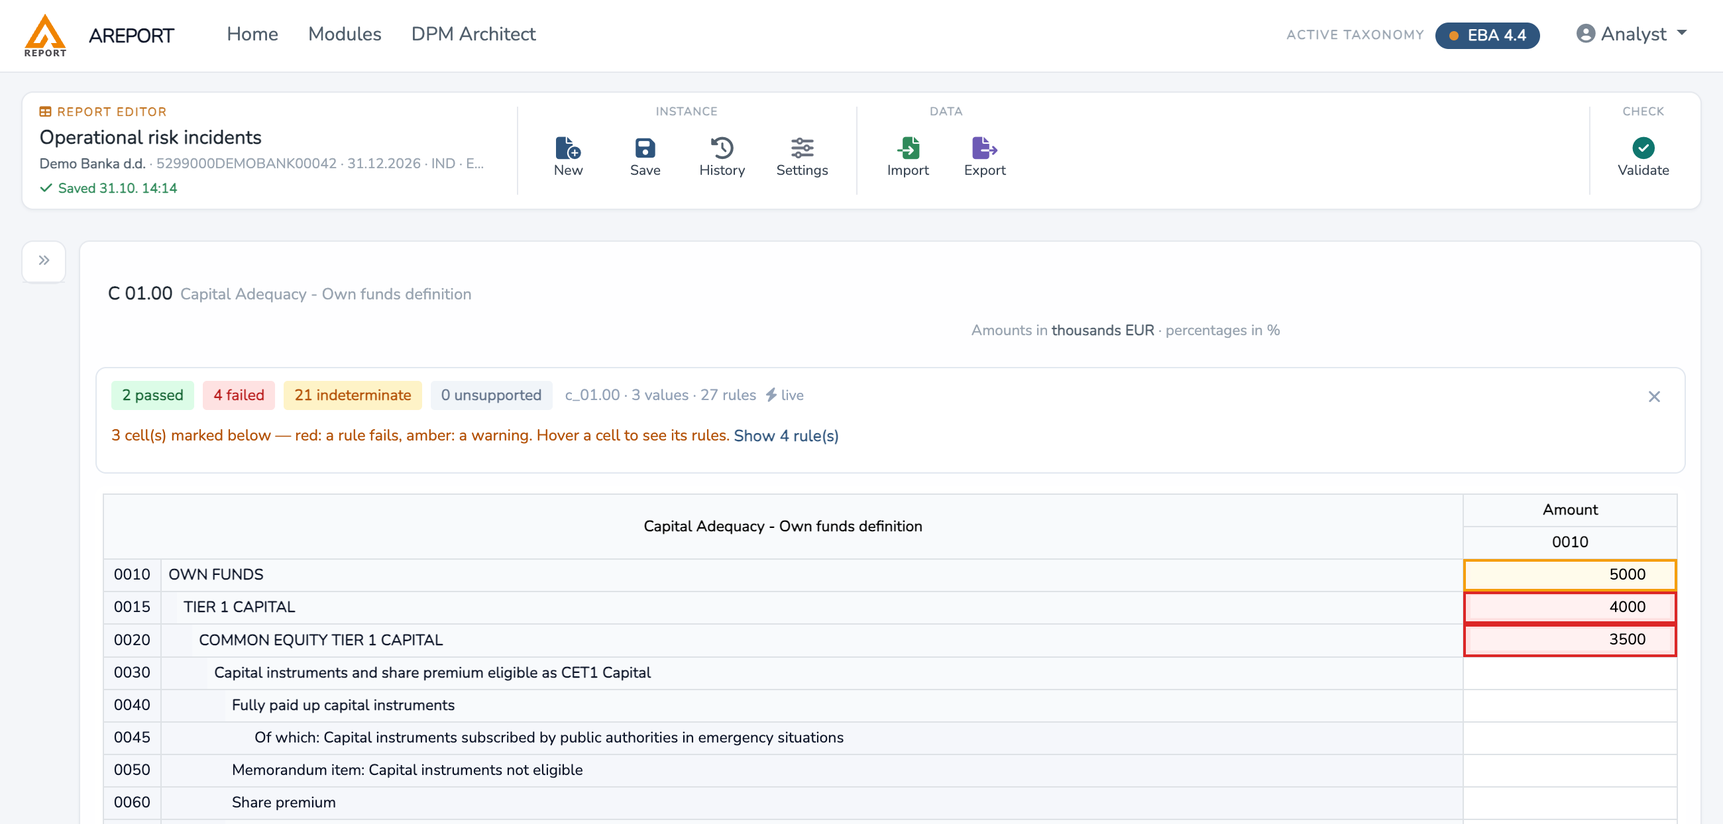
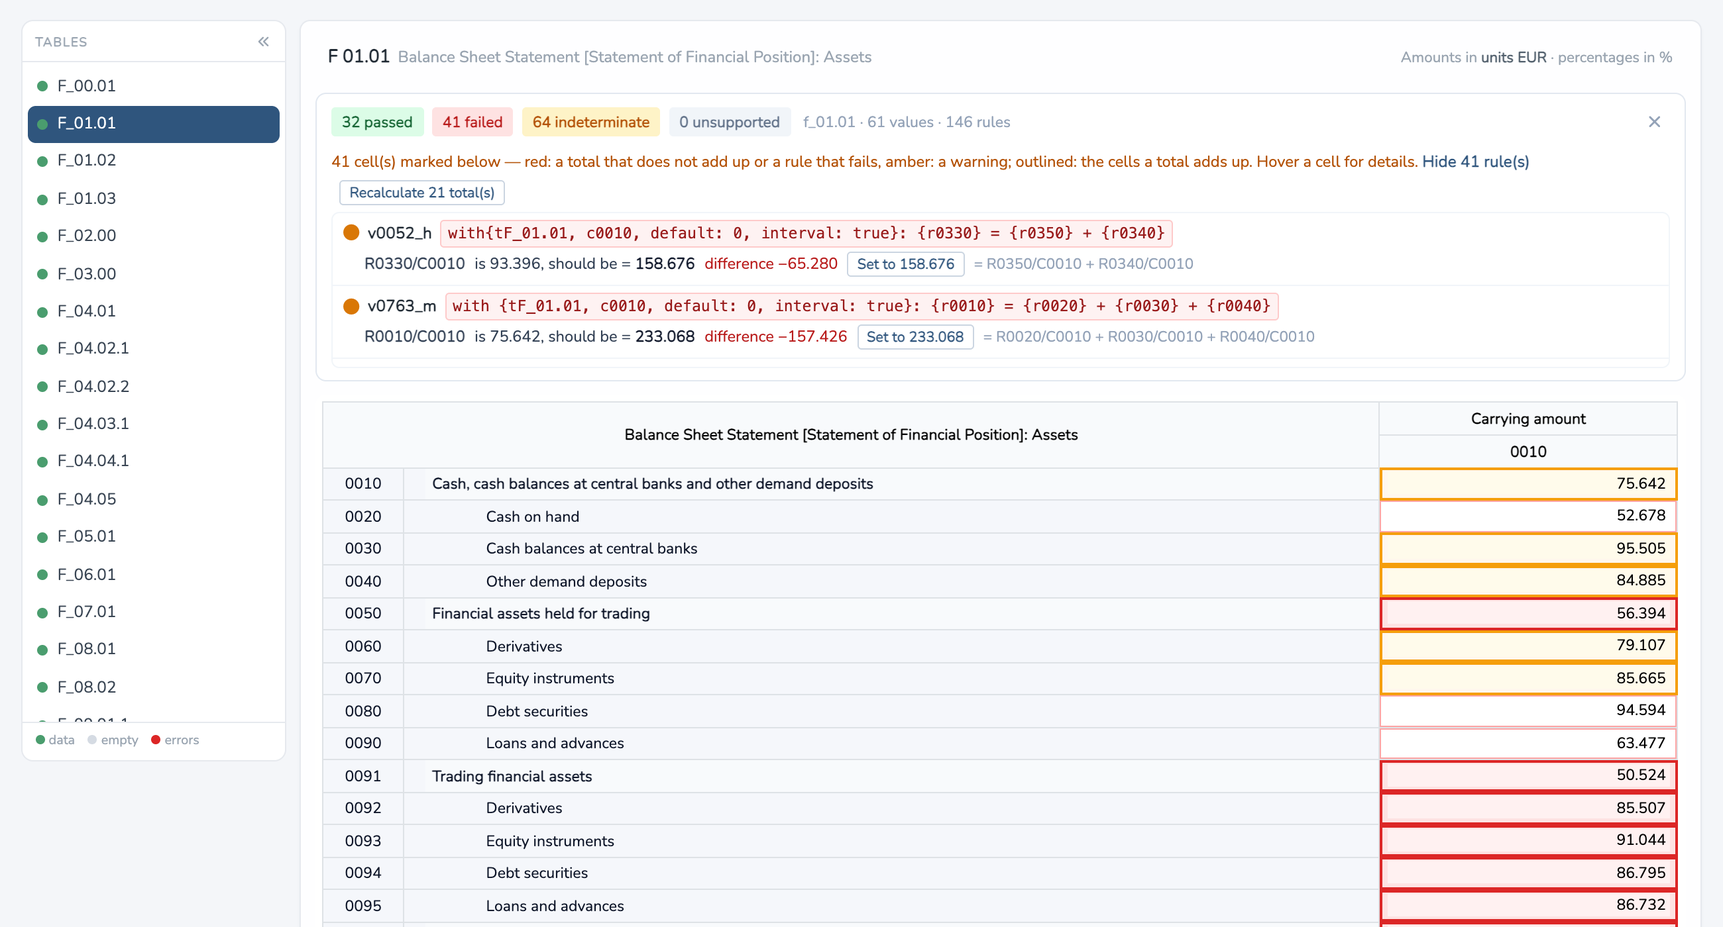
Landing page: three private plugins (Teams added), report import, number formats, explained totals; new form screenshot

diff --git a/resources/views/welcome.blade.php b/resources/views/welcome.blade.php
@@ -5,15 +5,17 @@
     <meta name="viewport" content="width=device-width, initial-scale=1">
     @php
         $seoTitle = 'AReport — DPM & XBRL regulatory reporting software (EBA, EIOPA, COREP, FINREP, xBRL-CSV)';
-        $seoDesc = 'AReport turns DPM/XBRL taxonomies (EBA, EIOPA, ECB or national) into reporting forms: enter COREP, FINREP, DORA or MREL data, validate it with DPM-XL rules and Arelle, and export xBRL-CSV and xBRL-XML filings.';
+        $seoDesc = 'AReport turns DPM/XBRL taxonomies (EBA, EIOPA, ECB or national) into reporting forms: enter or import COREP, FINREP, DORA or MREL data, validate it with DPM-XL rules and Arelle, sign it off as a team and export xBRL-CSV and xBRL-XML filings.';
         $seoImage = asset('images/landing/workspace.png');
         $faq = [
             ['What is AReport?', 'AReport is a web application for supervisory reporting with DPM/XBRL taxonomies. It renders the taxonomy tables as data entry forms, stores the reported facts, checks them and exports filing-ready xBRL-CSV and xBRL-XML instances.'],
             ['Which taxonomies does AReport support?', 'Any taxonomy built on the DPM/XBRL standard, DPM 1.0 or DPM 2.0: EBA, EIOPA, ECB or a national regulator\'s, including open tables, typed dimensions and national extensions. Tested with EBA 4.2 and 4.4 (COREP, FINREP, DORA, MREL, IRRBB, AE, MICA).'],
             ['Which file formats can I export?', 'xBRL-CSV report packages and xBRL-XML instances following the filing rules (e.g. the EBA filing rules), plus Excel, PDF and HTML copies of the tables. Exported instances can be checked with Arelle before filing.'],
-            ['How is the data validated?', 'Business rules written in DPM-XL run on the reported data and mark the cells that break a rule directly on the form: red for errors, amber for warnings. A validation report lists every rule with the facts behind it.'],
-            ['Can I build my own taxonomy?', 'Yes, with the private DPM Architect plugin: design frameworks, modules, tables, the data dictionary and validation rules, and generate an XBRL taxonomy package that is checked with Arelle.'],
-            ['Is AReport open source?', 'The core application is on GitHub. The DPM Architect and Validation plugins are private and provided separately — use the contact form to ask about them.'],
+            ['Can I bring in reports I already have?', 'Yes. An xBRL-CSV report package or an xBRL-XML instance opens as a new report: the module, reference date, entity and filing indicators come from the file and every fact goes into its cell, open tables and typed sheets included. Excel templates are read by their EBA row and column codes, and a block copied from Excel can be pasted straight into a table.'],
+            ['How is the data validated?', 'Business rules written in DPM-XL run on the reported data and mark the cells to look at directly on the form: red for errors, amber for warnings. For a total that does not add up the form shows what its parts add up to and the difference, and sets it in one click. A validation report lists every rule with the facts behind it.'],
+            ['Can I build my own taxonomy?', 'Yes, with the private DPM Architect plugin: design frameworks, modules, tables, the data dictionary and validation rules, release versions, and generate an XBRL taxonomy package that is checked with Arelle.'],
+            ['Can a team review and approve reports?', 'Yes, with the private Teams plugin: members share reports and entities, with preparer, reviewer and approver roles, a four-eyes sign-off (draft, in review, approved, exported), comments on cells and an e-mail at every step.'],
+            ['Is AReport open source?', 'The core application is on GitHub. The DPM Architect, Validation and Teams plugins are private and provided separately — use the contact form to ask about them.'],
         ];
     @endphp
     <title>{{ $seoTitle }}</title>
@@ -51,7 +53,7 @@
                 'description' => $seoDesc,
                 'image' => $seoImage,
                 'screenshot' => [asset('images/landing/workspace.png'), asset('images/landing/form.png'), asset('images/landing/architect.png'), asset('images/landing/validation.png')],
-                'featureList' => ['DPM 1.0 and DPM 2.0 taxonomies (EBA, EIOPA, ECB, national)', 'COREP, FINREP, DORA, MREL reporting forms', 'xBRL-CSV and xBRL-XML export', 'DPM-XL business rule validation', 'Arelle validation of exported instances', 'DPM Architect: taxonomy authoring (private plugin)'],
+                'featureList' => ['DPM 1.0 and DPM 2.0 taxonomies (EBA, EIOPA, ECB, national)', 'COREP, FINREP, DORA, MREL reporting forms', 'Import of xBRL-CSV packages and xBRL-XML instances', 'xBRL-CSV and xBRL-XML export', 'DPM-XL business rule validation', 'Arelle validation of exported instances', 'DPM Architect: taxonomy authoring (private plugin)', 'Teams: four-eyes sign-off (private plugin)'],
                 'offers' => ['@type' => 'Offer', 'price' => '0', 'priceCurrency' => 'EUR', 'description' => 'Demo workspace'],
                 'sameAs' => ['https://github.com/begicf/areport'],
             ],
@@ -126,7 +128,7 @@
         .sec-head h2{font-size:1.9rem;letter-spacing:-.02em;margin:.5rem 0 0;font-weight:700;color:#16202c}
         .sec-head p{color:var(--muted);margin:.7rem 0 0;font-size:1.02rem}
 
-        .benefits{display:grid;grid-template-columns:repeat(4,1fr);gap:1rem}
+        .benefits{display:grid;grid-template-columns:repeat(3,1fr);gap:1rem}
         .bcard{border:1px solid var(--line);border-radius:12px;padding:1.3rem;background:#fff;box-shadow:0 1px 2px rgba(16,24,40,.04)}
         .bcard .ic{width:40px;height:40px;border-radius:10px;display:flex;align-items:center;justify-content:center;background:var(--blue-soft);color:var(--blue);border:1px solid var(--blue-bd);font-size:1.05rem;margin-bottom:.9rem}
         .bcard h3{font-size:1rem;margin:0 0 .35rem;font-weight:600}
@@ -147,8 +149,27 @@
         .feat ul li{display:flex;gap:.6rem;align-items:flex-start;font-size:.92rem;color:#3a4654}
         .feat ul li i{color:var(--blue);margin-top:.2rem}
 
+        /* sign-off mock (Teams) */
+        .so{padding:1.2rem 1.3rem 1.3rem;font-size:.86rem;color:#3a4654}
+        .so-head{display:flex;justify-content:space-between;gap:.8rem;align-items:baseline;flex-wrap:wrap}
+        .so-head b{font-size:.98rem;color:#16202c}
+        .so-head span{font-size:.76rem;color:var(--faint)}
+        .so-steps{display:grid;grid-template-columns:repeat(4,1fr);gap:.4rem;margin:1rem 0 1.1rem}
+        .so-step{text-align:center;font-size:.72rem;font-weight:600;color:var(--faint);padding-top:.55rem;border-top:3px solid var(--line)}
+        .so-step.done{color:#15803d;border-color:#22c55e}
+        .so-step.now{color:var(--blue);border-color:var(--blue)}
+        .so-log{display:grid;gap:.55rem}
+        .so-log div{display:grid;grid-template-columns:28px 1fr;gap:.6rem;align-items:start}
+        .so-log .av{width:28px;height:28px;border-radius:999px;display:flex;align-items:center;justify-content:center;font-size:.68rem;font-weight:700;color:#fff}
+        .so-log p{margin:0;font-size:.82rem;line-height:1.4}
+        .so-log p small{display:block;color:var(--faint);font-size:.72rem}
+        .so-log q{color:#16202c}
+        .so-foot{margin-top:1.1rem;display:flex;gap:.5rem;justify-content:flex-end}
+        .so-btn{font-size:.76rem;font-weight:600;padding:.35rem .75rem;border-radius:7px;border:1px solid var(--line);background:#fff;color:#3a4654}
+        .so-btn.go{background:var(--blue);border-color:var(--blue-d);color:#fff}
+
         /* workflow */
-        .flow{display:grid;grid-template-columns:repeat(4,1fr);gap:1rem;counter-reset:step}
+        .flow{display:grid;grid-template-columns:repeat(5,1fr);gap:1rem;counter-reset:step}
         .step{border:1px solid var(--line);border-radius:12px;padding:1.3rem;background:#fff;position:relative}
         .step .n{width:30px;height:30px;border-radius:999px;background:var(--blue);color:#fff;display:flex;align-items:center;justify-content:center;font-weight:700;font-size:.9rem}
         .step h4{margin:.8rem 0 .3rem;font-size:1rem;font-weight:600}
@@ -175,6 +196,7 @@
 
         @media (max-width:900px){
             .hero .grid,.feat,.benefits,.flow{grid-template-columns:1fr}
+            .benefits{grid-template-columns:1fr}
             .hero h1{font-size:2.1rem}
             .feat.rev .ftext{order:0}
             .shot.tilt{transform:none}
@@ -271,8 +293,8 @@
             <h1>Taxonomy-driven reporting, <span class="hl">modelled and validated</span> in one workspace.</h1>
             <p class="lead">
                 AReport turns DPM/XBRL taxonomies (EBA, EIOPA, ECB or your regulator's) into a working reporting environment — browse modules,
-                fill submission data, and export valid xBRL. Two private plugins let you
-                <strong>author the data model</strong> and <strong>validate every figure</strong> before you file.
+                fill or import submission data, and export valid xBRL. Three private plugins let you
+                <strong>author the data model</strong>, <strong>validate every figure</strong> and <strong>sign off as a team</strong> before you file.
             </p>
             <div class="cta">
                 @auth
@@ -284,7 +306,7 @@
             </div>
             <div class="meta">
                 <span class="m"><i class="fas fa-circle-check"></i> DPM 1.0 &amp; 2.0</span>
-                <span class="m"><i class="fas fa-circle-check"></i> xBRL-XML · OIM CSV · JSON</span>
+                <span class="m"><i class="fas fa-circle-check"></i> xBRL-CSV · xBRL-XML · Excel</span>
                 <span class="m"><i class="fas fa-circle-check"></i> DPM-XL · Arelle</span>
             </div>
         </div>
@@ -298,10 +320,11 @@
 {{-- ===== Trust strip ===== --}}
 <div class="trust">
     <div class="wrap lrow">
-        <span class="t"><i class="fas fa-layer-group"></i> Framework → Table group → Table</span>
+        <span class="t"><i class="fas fa-file-import"></i> Import existing xBRL-CSV &amp; xBRL-XML reports</span>
+        <span class="t"><i class="fas fa-table-cells"></i> Excel by EBA row &amp; column codes</span>
+        <span class="t"><i class="fas fa-shield-halved"></i> DPM-XL rules &amp; Arelle</span>
+        <span class="t"><i class="fas fa-user-check"></i> Four-eyes sign-off</span>
         <span class="t"><i class="fas fa-file-zipper"></i> Generated XBRL taxonomy packages</span>
-        <span class="t"><i class="fas fa-file-import"></i> Import &amp; export instances</span>
-        <span class="t"><i class="fas fa-shield-halved"></i> Rule-based data quality</span>
     </div>
 </div>
 
@@ -316,22 +339,32 @@
         <div class="bcard">
             <div class="ic"><i class="fas fa-sitemap"></i></div>
             <h3>Taxonomy-native</h3>
-            <p>Loads any DPM-based taxonomy exactly as published (EBA, EIOPA or a national regulator's: COREP, FINREP, DORA, MREL and more) with the full dimensional model.</p>
+            <p>Loads any DPM-based taxonomy exactly as published (EBA, EIOPA or a national regulator's: COREP, FINREP, DORA, MREL and more) with the full dimensional model, open tables and typed sheets.</p>
         </div>
         <div class="bcard">
-            <div class="ic"><i class="fas fa-table-cells"></i></div>
-            <h3>Real reporting tables</h3>
-            <p>Render authored and official tables with RC notation, nested headers and open axes, ready for direct data entry.</p>
+            <div class="ic"><i class="fas fa-keyboard"></i></div>
+            <h3>Forms made for reporters</h3>
+            <p>Real reporting tables with RC codes. Numbers in your style (1.234,56 or 1,234.56), a block pasted from Excel, Enter down the column, and last period copied or compared with the change in %.</p>
+        </div>
+        <div class="bcard">
+            <div class="ic"><i class="fas fa-file-import"></i></div>
+            <h3>Bring the reports you have</h3>
+            <p>Open an existing xBRL-CSV package or xBRL-XML instance as a new report — module, date, entity and filing indicators come from the file. Excel templates are read by their EBA codes.</p>
         </div>
         <div class="bcard">
             <div class="ic"><i class="fas fa-right-left"></i></div>
-            <h3>Open formats</h3>
-            <p>Import and export xBRL-XML, OIM xBRL-CSV and JSON. Round-trips are lossless, so nothing is lost in translation.</p>
+            <h3>Filing-ready exports</h3>
+            <p>xBRL-CSV report packages and xBRL-XML instances that follow the EBA filing rules, checked with Arelle, plus Excel, PDF and HTML copies of any table.</p>
         </div>
         <div class="bcard">
-            <div class="ic"><i class="fas fa-circle-check"></i></div>
-            <h3>Confidence to file</h3>
-            <p>Business rules run on your data and highlight exactly which cells to fix — before the submission ever leaves your desk.</p>
+            <div class="ic"><i class="fas fa-list-check"></i></div>
+            <h3>Know where each report stands</h3>
+            <p>Every report shows its status — not validated, with errors, ready or exported — and its EBA remittance date. A pre-flight check covers entity (LEI from GLEIF), filing indicators and settings.</p>
+        </div>
+        <div class="bcard">
+            <div class="ic"><i class="fas fa-clock-rotate-left"></i></div>
+            <h3>A full audit trail</h3>
+            <p>Every change to a cell is kept with who made it and when, so a figure can always be traced back — on screen or in the report's history.</p>
         </div>
     </div>
 </section>
@@ -340,10 +373,10 @@
 <div class="plugins" id="plugins">
     <div class="wrap">
         <div class="sec-head" style="padding-top:3.4rem">
-            <span class="eyebrow">Two private plugins</span>
-            <h2>Model the data. Validate the data.</h2>
-            <p>Two optional power tools extend the core workspace.</p>
-            <p class="private-note"><i class="fas fa-lock"></i> DPM Architect and the Validation plugin are <b>not publicly available</b> — they are not part of the open-source AReport and are provided separately, on request. <a href="#contact">Contact us →</a></p>
+            <span class="eyebrow">Three private plugins</span>
+            <h2>Model the data. Validate it. Sign it off.</h2>
+            <p>Three optional extensions of the core workspace, each usable on its own.</p>
+            <p class="private-note"><i class="fas fa-lock"></i> DPM Architect, Validation and Teams are <b>not publicly available</b> — they are not part of the open-source AReport and are provided separately, on request. <a href="#contact">Contact us →</a></p>
         </div>
 
         {{-- DPM Architect --}}
@@ -355,7 +388,9 @@
                 <ul>
                     <li><i class="fas fa-check"></i> Structure editor for X / Y / Z axes: metric, dimensions and open (key) axes per coordinate</li>
                     <li><i class="fas fa-check"></i> Data dictionary of metrics, dimensions, domains, members &amp; hierarchies</li>
-                    <li><i class="fas fa-check"></i> Validation rules in DPM-XL, alongside EBA's 12,000+ operations</li>
+                    <li><i class="fas fa-check"></i> Validation rules in DPM-XL, alongside EBA's 12,000+ operations — also edited in Excel and imported back</li>
+                    <li><i class="fas fa-check"></i> Releases: compare a version with the one before; a released version's files stay as filed</li>
+                    <li><i class="fas fa-check"></i> Labels in every language you report in, with AI-suggested translations</li>
                     <li><i class="fas fa-check"></i> Generates tables, modules and a taxonomy package, checked with Arelle</li>
                 </ul>
             </div>
@@ -373,8 +408,9 @@
                 <p>A dedicated DPM-XL engine runs the framework’s business rules against your instance and shows precisely what to fix — right on the reporting form.</p>
                 <ul>
                     <li><i class="fas fa-check"></i> Powered by the official EBA DPM-XL ANTLR grammar</li>
-                    <li><i class="fas fa-check"></i> A validation report per instance: errors, warnings, missing data, with the facts behind each rule</li>
-                    <li><i class="fas fa-check"></i> Failing cells are highlighted in red on the reporting form</li>
+                    <li><i class="fas fa-check"></i> Rules straight from the EBA DPM 2.0 database for each module version, with EBA's rule deactivation packages applied</li>
+                    <li><i class="fas fa-check"></i> A validation report per instance: errors, warnings, missing data, with the facts behind each rule — as a page, CSV or PDF</li>
+                    <li><i class="fas fa-check"></i> A total that does not add up says what its parts add up to and the difference</li>
                     <li><i class="fas fa-check"></i> The exported xBRL-XML or xBRL-CSV file is checked with Arelle before you file</li>
                 </ul>
             </div>
@@ -391,15 +427,49 @@
                 <h3>See what breaks a rule while you enter the data</h3>
                 <p>As soon as a table opens — and again after every change — the rules run in the background and the form marks the cells to look at. No separate step, no guessing which figure is wrong.</p>
                 <ul>
-                    <li><i class="fas fa-check"></i> Red cells break a blocking rule, amber cells raise a warning</li>
-                    <li><i class="fas fa-check"></i> Hover a cell to see which rules it takes part in</li>
-                    <li><i class="fas fa-check"></i> The table list shows which tables still have errors</li>
-                    <li><i class="fas fa-check"></i> Fix a value and the mark clears on its own</li>
+                    <li><i class="fas fa-check"></i> Only the total that does not add up turns red; the cells it adds up are outlined</li>
+                    <li><i class="fas fa-check"></i> “R0100 is 56.938, should be 620.401” — set it with one click, or recalculate every total of the table</li>
+                    <li><i class="fas fa-check"></i> Amber cells raise a warning; hover a cell to see its rules</li>
+                    <li><i class="fas fa-check"></i> The table list shows which tables still have errors, and a fixed value clears its mark on its own</li>
                 </ul>
             </div>
             <div class="shot">
                 <div class="shot-bar"><span class="shot-dot" style="background:#ef6a5f"></span><span class="shot-dot" style="background:#f5bf4f"></span><span class="shot-dot" style="background:#61c454"></span></div>
                 <img src="{{ asset('images/landing/form.png') }}?v={{ @filemtime(public_path('images/landing/form.png')) }}" alt="Reporting form with cells marked by live validation">
+            </div>
+        </div>
+
+        {{-- Teams --}}
+        <div class="feat rev">
+            <div class="ftext">
+                <span class="pill"><i class="fas fa-user-check"></i> Plugin · Teams</span> <span class="pill private"><i class="fas fa-lock"></i> Not public</span>
+                <h3>Prepare, review and approve — as a team</h3>
+                <p>Reports and entities are shared within the team, and nothing goes to the supervisor without a second pair of eyes.</p>
+                <ul>
+                    <li><i class="fas fa-check"></i> Roles: preparer, reviewer, approver and admin</li>
+                    <li><i class="fas fa-check"></i> Four-eyes sign-off: Draft → In review → Approved → Exported; only an approved report passes the filing export</li>
+                    <li><i class="fas fa-check"></i> A team can require a clean validation before submitting; the approver is never who submitted or changed the data</li>
+                    <li><i class="fas fa-check"></i> Comments on cells, and an e-mail at every step to whom it concerns</li>
+                </ul>
+            </div>
+            <div class="shot" aria-label="Sign-off of a report">
+                <div class="shot-bar"><span class="shot-dot" style="background:#ef6a5f"></span><span class="shot-dot" style="background:#f5bf4f"></span><span class="shot-dot" style="background:#61c454"></span></div>
+                <div class="so">
+                    <div class="so-head"><b>Own Funds — COREP · 31.12.2026</b><span>Demo Bank d.d. · CON</span></div>
+                    <div class="so-steps">
+                        <div class="so-step done"><i class="fas fa-check"></i> Draft</div>
+                        <div class="so-step now">In review</div>
+                        <div class="so-step">Approved</div>
+                        <div class="so-step">Exported</div>
+                    </div>
+                    <div class="so-log">
+                        <div><span class="av" style="background:#2f557d">PR</span><p>Submitted for review <small>Preparer · validated, 0 errors</small></p></div>
+                        <div><span class="av" style="background:#c2731f">RV</span><p>Returned: <q>C 01.00 r0010 differs from the general ledger.</q> <small>Reviewer · comment on the cell</small></p></div>
+                        <div><span class="av" style="background:#2f557d">PR</span><p>Corrected and submitted again <small>Preparer</small></p></div>
+                        <div><span class="av" style="background:#15803d">RV</span><p>Comment: <q>Checked against the ledger, fine now.</q> <small>Reviewer</small></p></div>
+                    </div>
+                    <div class="so-foot"><span class="so-btn">Return</span><span class="so-btn go"><i class="fas fa-check"></i> Approve</span></div>
+                </div>
             </div>
         </div>
     </div>
@@ -409,13 +479,14 @@
 <section class="pad wrap" id="workflow">
     <div class="sec-head">
         <span class="eyebrow">How it works</span>
-        <h2>From taxonomy to compliant filing in four steps</h2>
+        <h2>From taxonomy to compliant filing in five steps</h2>
     </div>
     <div class="flow">
         <div class="step"><div class="n">1</div><h4>Model</h4><p>Load a taxonomy (EBA, EIOPA, national) or author your own tables in DPM Architect and generate their taxonomy.</p></div>
-        <div class="step"><div class="n">2</div><h4>Report</h4><p>Open a module and enter submission data in real reporting tables.</p></div>
-        <div class="step"><div class="n">3</div><h4>Validate</h4><p>Run DPM-XL rules, fix the cells highlighted on the form, and check the file with Arelle.</p></div>
-        <div class="step"><div class="n">4</div><h4>Export</h4><p>Produce a valid xBRL-XML, OIM CSV or JSON instance to file.</p></div>
+        <div class="step"><div class="n">2</div><h4>Report</h4><p>Open a module and enter the data, paste it from Excel, or import a report you already have.</p></div>
+        <div class="step"><div class="n">3</div><h4>Validate</h4><p>Run the DPM-XL rules and fix the cells marked on the form — totals are recalculated in one click.</p></div>
+        <div class="step"><div class="n">4</div><h4>Sign off</h4><p>A reviewer checks it, an approver approves it — every step kept with its comment.</p></div>
+        <div class="step"><div class="n">5</div><h4>Export</h4><p>Produce the xBRL-CSV package or xBRL-XML instance, checked with Arelle, and file it.</p></div>
     </div>
 </section>
 
@@ -425,7 +496,7 @@
         <div>
             <span class="eyebrow">Contact</span>
             <h2 style="margin:.4rem 0 .6rem;font-weight:700;letter-spacing:-.02em;color:#16202c">Contact us</h2>
-            <p class="lead2">Interested in DPM Architect or the Validation plugin, or in using AReport for your regulatory reporting? Send us a message and we will reply by email.</p>
+            <p class="lead2">Interested in DPM Architect, Validation or Teams, or in using AReport for your regulatory reporting? Send us a message and we will reply by email.</p>
             <ul class="pts">
                 <li><i class="fas fa-lock"></i> Access to the private plugins</li>
                 <li><i class="fas fa-landmark"></i> Own taxonomies and modules for a supervisor</li>

diff --git a/app/Model/ContactMessage.php b/app/Model/ContactMessage.php
@@ -7,7 +7,7 @@ use Illuminate\Database\Eloquent\Model;
 class ContactMessage extends Model
 {
     public const TOPICS = [
-        'plugins' => 'Access to DPM Architect / Validation',
+        'plugins' => 'Access to DPM Architect / Validation / Teams',
         'reporting' => 'Regulatory reporting with AReport',
         'other' => 'Something else',
     ];
